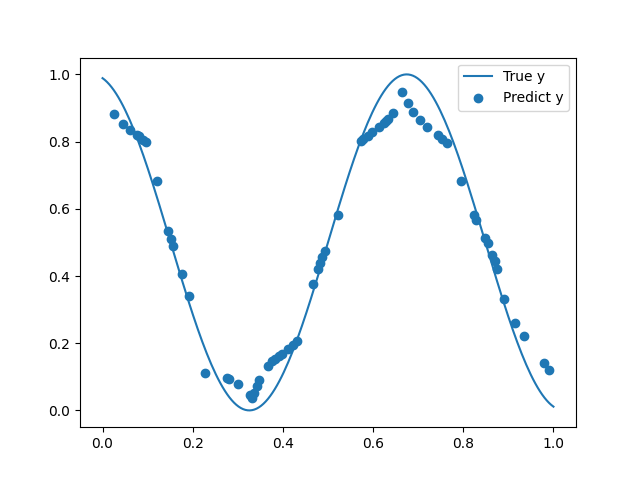
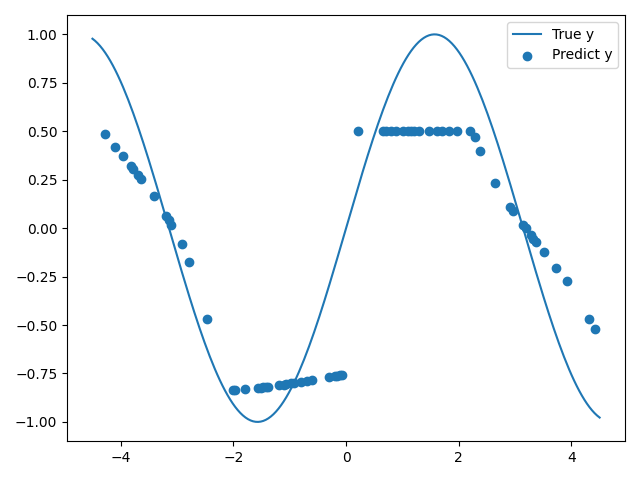
...

diff --git a/FS2.py b/FS2.py
@@ -2,16 +2,22 @@ import numpy as np
 from sklearn.datasets import load_iris, load_digits, load_diabetes
 from thefittest.tools.transformations import SamplingGrid
 from thefittest.optimizers import SelfCGA
-from sklearn.metrics import f1_score
 from sklearn.metrics import r2_score
-import skfuzzy as fuzz
 from matplotlib import pyplot as plt
 from sklearn.model_selection import train_test_split
 from sklearn.preprocessing import minmax_scale
 
+from typing import Optional
+
+
+def remove_duplicate_rows(arr):
+    # Преобразование каждой строки в упорядоченный кортеж и использование множества для удаления дубликатов
+    unique_rows = np.unique([tuple(row) for row in arr], axis=0)
+    # Воссоздание массива NumPy из уникальных строк
+    return np.array(unique_rows, dtype = np.int64)
 
 class FuzzyRegressor:
-    def __init__(self, iters, pop_size, n_features_fuzzy_sets, n_target_fuzzy_sets, max_rules_in_base, target_grid_volume):
+    def __init__(self, iters, pop_size, n_features_fuzzy_sets, n_target_fuzzy_sets, max_rules_in_base, target_grid_volume = None):
         self.iters = iters
         self.pop_size = pop_size
         self.n_features_fuzzy_sets = n_features_fuzzy_sets
@@ -147,9 +153,7 @@ class FuzzyRegressor:
         
         return cuted_memberships
 
-
-    def fit(self, X, y):
-        y = y.astype(np.float64)
+    def define_sets(self, X, y, set_names: Optional[dict[str, list[str]]] = None, feature_names: Optional[list[str]] = None, target_names: Optional[list[str]] = None):
 
         self.n_features = X.shape[1]
 
@@ -160,10 +164,32 @@ class FuzzyRegressor:
 
         assert self.n_features == len(self.n_features_fuzzy_sets)
 
+
+        if feature_names is None:
+            self.feature_names = [f"X_{i}" for i in range(self.n_features)]
+        else:
+            self.feature_names = feature_names
+
+        if set_names is None:
+            self.set_names = {feature_name: [f"set_{i}" for i in range(n_sets)]
+                         for feature_name, n_sets in zip(self.feature_names, self.n_features_fuzzy_sets)}
+        else:
+            self.set_names = set_names
+
+        if target_names is None:
+            self.target_names = [f"Y_{i}" for i in range(self.n_target_fuzzy_sets)]
+        else:
+            self.target_names = target_names
+
+        if self.target_grid_volume is None:
+            self.target_grid_volume = len(y)
+
         self.create_features_terms(X)
         self.create_target_terms(y)
 
-        # self.interpolate_membership = np.array([self.get_triangular_membership_out(y, term) for term in self.target_terms_point])
+    def fit(self, X, y):
+        y = y.astype(np.float64)
+
         self.interpolate_membership = np.array([self.get_triangular_membership_out(self.target_grid, term) for term in self.target_terms_point])
 
         number_bits = np.array([self.find_number_bits(n_sets + 1)
@@ -185,11 +211,11 @@ class FuzzyRegressor:
 
             for population_g_int_i in population_g_int:
                 rulebase_switch = population_g_int_i.reshape(self.max_rules_in_base, -1)
+                rulebase_switch_u = remove_duplicate_rows(rulebase_switch)
 
-                rulebase, switch = rulebase_switch[:,:-1], rulebase_switch[:,-1]
+                rulebase, switch = rulebase_switch_u[:,:-1], rulebase_switch_u[:,-1]
                 rulebase = rulebase[switch == 1]
-                # rulebase = rulebase.astype(np.int64)
-
+                
                 overborder_cond = rulebase > self.fuzzy_sets_max_value
                 rulebase[overborder_cond] = (rulebase - self.fuzzy_sets_max_value)[overborder_cond]
                 
@@ -215,7 +241,6 @@ class FuzzyRegressor:
                     activation_degrees = np.array([self.inference(self.fuzzification(X, antecedent))
                                                 for antecedent in antecedents])
 
-                    # interpolate_membership = self.interpolate_membership
                     cuted_memberships = self.get_cut(self.interpolate_membership, activation_degrees, consequents)
 
 
@@ -230,10 +255,6 @@ class FuzzyRegressor:
                     y_predict = up/down
 
                     fitness[i] = r2_score(y, y_predict)
-
-                    # print('fitness[i]', fitness[i])
-
-                  
 
             return fitness
 
@@ -270,12 +291,14 @@ class FuzzyRegressor:
 
         y_predict = up/down
 
-        # print(y_predict.shape)
-
         return y_predict
         
-    def get_text_rules(self, set_names: dict[str, list[str]], feature_names: list[str], target_names: list[str]):
-        
+    def get_text_rules(self, print_y_intervals = False):
+
+        print(self.base)
+        print(np.unique(self.base, axis = 1))
+        print(remove_duplicate_rows(self.base))
+
         text_rules = []
         for rule_i in self.base:
             rule_text = "if "
@@ -283,73 +306,48 @@ class FuzzyRegressor:
                 if rule_i_j == self.ignore_terms_id[j]:
                     continue
                 else:
-                    rule_text += f"({feature_names[j]} is {set_names[feature_names[j]][rule_i_j]}) and "
+                    rule_text += f"({self.feature_names[j]} is {self.set_names[self.feature_names[j]][rule_i_j]}) and "
                 
             rule_text = rule_text[:-4]
 
-            rule_text += f"then {target_names[rule_i[-1]]}"
+            if print_y_intervals:
+                rule_text += f"then Y is {self.target_names[rule_i[-1]]} ({self.target_terms_point[rule_i[-1]][0]}, {self.target_terms_point[rule_i[-1]][-1]})"
+            else:
+                rule_text += f"then (Y is {self.target_names[rule_i[-1]]})"
             text_rules.append(rule_text)
         
         return text_rules
 
 
-
-data = load_diabetes()
-
-X = data.data
-y = data.target.astype(np.float64)
-
-# def problem(x):
-#     return np.sin(x[:,0])
+def problem(x):
+    return np.sin(x[:,0])
 
 
-# function = problem
-# left_border = -4.5
-# right_border = 4.5
-# sample_size = 200
-# n_dimension = 1
+function = problem
+left_border = -4.5
+right_border = 4.5
+sample_size = 200
+n_dimension = 1
 
-# X = np.array([np.linspace(left_border, right_border, sample_size)
-#               for _ in range(n_dimension)]).T
-# y = function(X)
-
-# X_scaled = minmax_scale(X)
-# y_scaled = minmax_scale(y)
+X = np.array([np.linspace(left_border, right_border, sample_size)
+              for _ in range(n_dimension)]).T
+y = function(X)
 
 X_train, X_test, y_train, y_test = train_test_split(X, y, test_size=0.33, random_state=42)
 
-# features = data.feature_names
+features = ["x_1"]
+set_names = {str(features[0]): ["Очень маленькое", "Маленькое", "Среднее", "Большое", "Очень большое"]}
+targets = ["y1", "y2", "y3", "y3", "y4"]
 
-# print(features)
-
-# set_names = {str(features[0]): ["Маленькое", "Большое"],
-#              str(features[1]): ["Маленькое", "Среднее"],
-#              str(features[2]): ["Холодное", "Среднее", "Горячее"],
-#              str(features[3]): ["Низкое", "Обычное", "Высокое", "Очень высокое"],
-#              str(features[4]): ["Низкое", "Обычное", "Высокое", "Очень высокое"],
-#              str(features[5]): ["Низкое", "Обычное", "Высокое", "Очень высокое"],
-#              str(features[6]): ["Низкое", "Обычное", "Высокое", "Очень высокое"],
-#              str(features[7]): ["Низкое", "Обычное", "Высокое", "Очень высокое"],
-#              str(features[8]): ["Низкое", "Обычное", "Высокое", "Очень высокое"],
-#              str(features[9]): ["Низкое", "Обычное", "Высокое", "Очень высокое"]}
-
-
-# n_features_fuzzy_sets = [25]
-
-# targets = [f"term{i}" for i in range()]
-
-n_features_fuzzy_sets = [2, 2, 3, 3, 3, 3, 3, 3, 3, 3]
-
-# n_target_fuzzy_sets = 3
-
-model = FuzzyRegressor(iters=200,
+model = FuzzyRegressor(iters=30,
                        pop_size=200,
-                       n_features_fuzzy_sets = n_features_fuzzy_sets,
-                       n_target_fuzzy_sets = 25,
+                       n_features_fuzzy_sets = [5],
+                       n_target_fuzzy_sets = 5,
                        max_rules_in_base = 30,
-                       target_grid_volume = 50,
                        )
 
+
+model.define_sets(X, y, set_names=set_names, feature_names=features, target_names=targets)
 
 model.fit(X_train, y_train)
 
@@ -357,14 +355,14 @@ y_pred = model.predict(X_test)
 
 print("r2_score: ", r2_score(y_test, y_pred))
 
-# text_rules = model.get_text_rules(set_names=set_names, feature_names=features, target_names=targets)
+text_rules = model.get_text_rules()
 
-# print(*text_rules, sep="\n")
+print(*text_rules, sep="\n")
 
 
-# plt.plot(X_scaled[:,0], y_scaled, label = "True y")
-# plt.scatter(X_test[:,0], y_pred, label = "Predict y")
-# plt.legend()
+plt.plot(X[:,0], y, label = "True y")
+plt.scatter(X_test[:,0], y_pred, label = "Predict y")
+plt.legend()
 
-# plt.tight_layout()
-# plt.savefig("test.png")
+plt.tight_layout()
+plt.savefig("test.png")

diff --git a/FS.py b/FS.py
@@ -4,6 +4,8 @@ from thefittest.tools.transformations import SamplingGrid
 from thefittest.optimizers import SelfCGA
 from sklearn.metrics import f1_score
 
+from typing import Optional
+
 
 class FuzzyClassifier:
     def __init__(self, iters, pop_size, n_features_fuzzy_sets, max_rules_in_base):
@@ -85,19 +87,39 @@ class FuzzyClassifier:
             membership_triangular[:,i][r_mask] = (1 - (X[:,i] - center)/r_down)[r_mask]
         
         return membership_triangular
-        
-    def fit(self, X, y):
-        y = y.astype(np.int64)
+
+    def define_sets(self, X, y, set_names: Optional[dict[str, list[str]]] = None, feature_names: Optional[list[str]] = None, target_names: Optional[list[str]] = None):
 
         self.n_features = X.shape[1]
         self.n_classes = len(np.unique(y))
+
         self.n_features_fuzzy_sets_classes = self.n_features_fuzzy_sets + [self.n_classes]
         self.fuzzy_sets_max_value = np.array(self.n_features_fuzzy_sets_classes)
         self.fuzzy_sets_max_value[-1] = self.fuzzy_sets_max_value[-1] - 1
 
         assert self.n_features == len(self.n_features_fuzzy_sets)
 
+        if feature_names is None:
+            self.feature_names = [f"X_{i}" for i in range(self.n_features)]
+        else:
+            self.feature_names = feature_names
+
+        if set_names is None:
+            self.set_names = {feature_name: [f"set_{i}" for i in range(n_sets)]
+                         for feature_name, n_sets in zip(self.feature_names, self.n_features_fuzzy_sets)}
+        else:
+            self.set_names = set_names
+
+        if target_names is None:
+            self.target_names = [f"Y_{i}" for i in range(self.n_classes)]
+        else:
+            self.target_names = target_names
+
         self.create_features_terms(X)
+
+
+    def fit(self, X, y):
+        y = y.astype(np.int64)
 
         number_bits = np.array([self.find_number_bits(n_sets + 1)
                                 for n_sets in self.n_features_fuzzy_sets_classes + [1]]*self.max_rules_in_base, dtype = np.int64)
@@ -185,8 +207,8 @@ class FuzzyClassifier:
         return y_predict
 
         
-    def get_text_rules(self, set_names: dict[str, list[str]], feature_names: list[str], target_names: list[str]):
-        
+    def get_text_rules(self):
+
         text_rules = []
         for rule_i in self.base:
             rule_text = "if "
@@ -194,11 +216,11 @@ class FuzzyClassifier:
                 if rule_i_j == self.ignore_terms_id[j]:
                     continue
                 else:
-                    rule_text += f"({feature_names[j]} is {set_names[feature_names[j]][rule_i_j]}) and "
+                    rule_text += f"({self.feature_names[j]} is {self.set_names[self.feature_names[j]][rule_i_j]}) and "
                 
             rule_text = rule_text[:-4]
 
-            rule_text += f"then {target_names[rule_i[-1]]}"
+            rule_text += f"then class is {self.target_names[rule_i[-1]]}"
             text_rules.append(rule_text)
         
         return text_rules
@@ -210,29 +232,28 @@ X = data.data
 y = data.target.astype(np.int64)
 
 
-targets = data.target_names
-features = data.feature_names
-
-set_names = {str(features[0]): ["Маленькое", "Большое"],
-             str(features[1]): ["Маленькое", "Среднее", "Большое"],
-             str(features[2]): ["Холодное", "Среднее", "Горячее"],
-             str(features[3]): ["Низкое", "Обычное", "Высокое", "Очень высокое"]}
-
-
-n_features_fuzzy_sets = [2, 3, 3, 4]
-
 model = FuzzyClassifier(iters=20,
                         pop_size=200,
-                        n_features_fuzzy_sets = n_features_fuzzy_sets,
+                        n_features_fuzzy_sets = [3, 2, 4, 2],
                         max_rules_in_base=10)
+set_names = {data.feature_names[0]: ["Маленький", "Средний", "Сильный"],
+             data.feature_names[1]: ["Маленький", "Сильный"],
+             data.feature_names[2]: ["Маленький", "Средний", "Сильный", "Очень сильный"],
+             data.feature_names[3]: ["Средний", "Сильный"]}
+
+model.define_sets(X, y, set_names = set_names, feature_names=data.feature_names, target_names=data.target_names)
+
+print(model.feature_names)
+print(model.set_names)
+print(model.target_names)
 
 
 model.fit(X, y)
 
-y_pred = model.predict(X)
+# y_pred = model.predict(X)
 
-print(f1_score(y, y_pred, average='macro'))
+# print(f1_score(y, y_pred, average='macro'))
 
-text_rules = model.get_text_rules(set_names=set_names, feature_names=features, target_names=targets)
+text_rules = model.get_text_rules()
 
 print(*text_rules, sep="\n")
